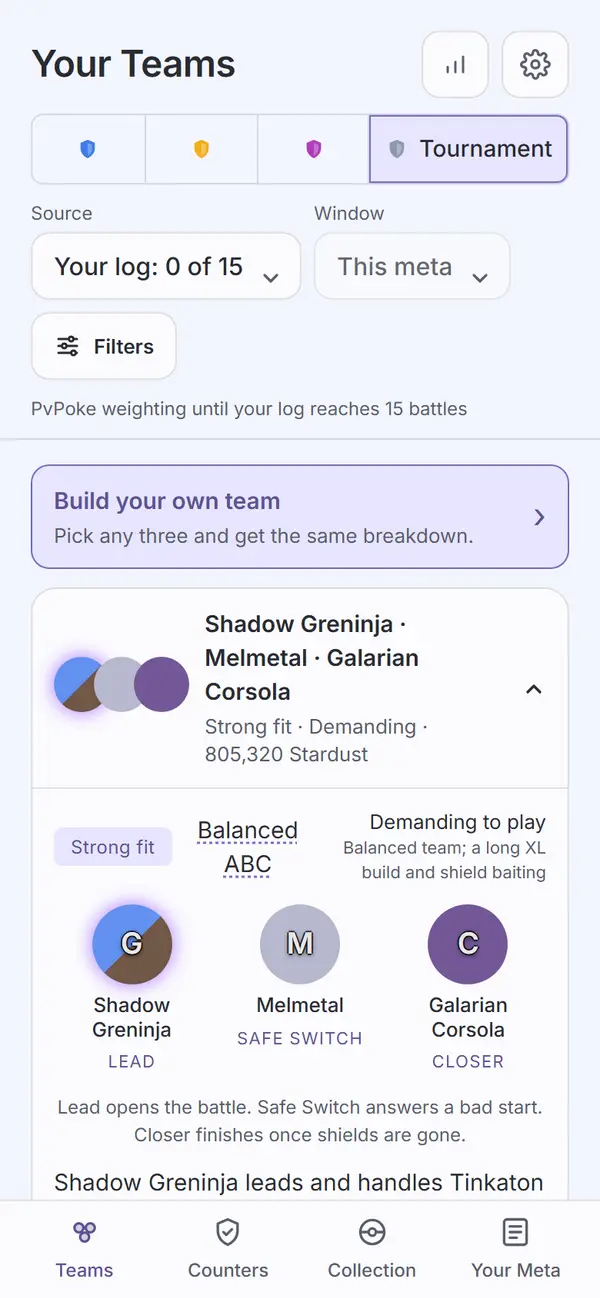
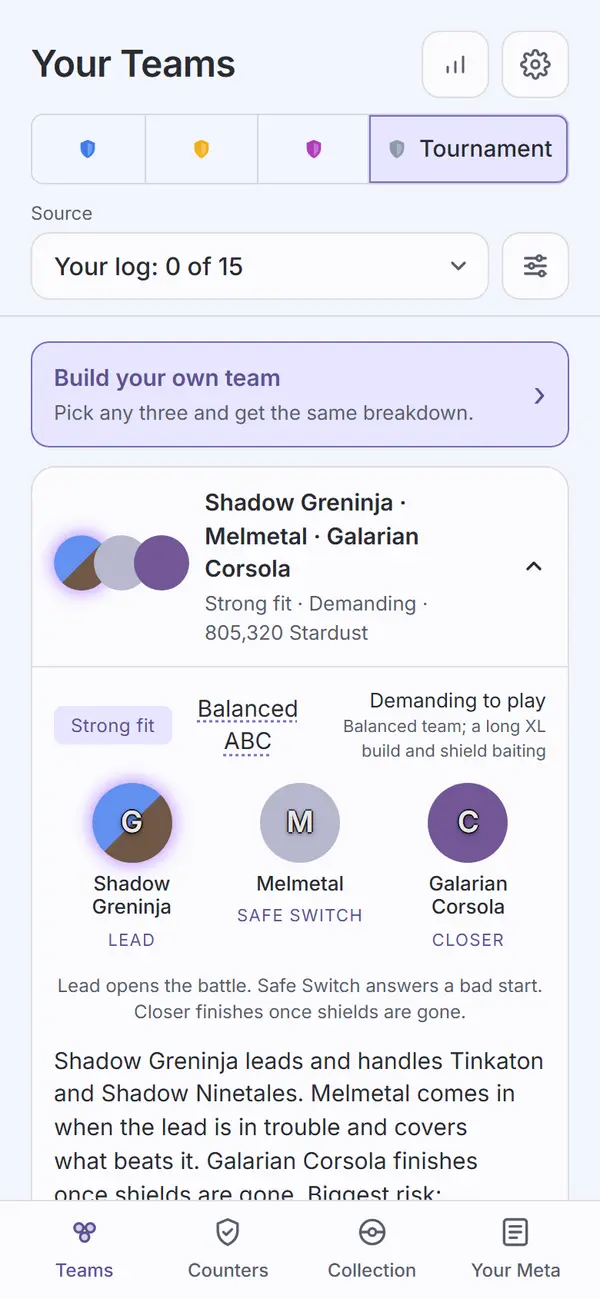
Design: Teams and gallery records for the controls change and the chevron fix
Fresh web:audit captures (Source and the filter icon in one row, Window at the top of the Filters sheet, no weighting line) and fresh gallery images (the icon-only FilterButton, centered chevrons), converted and looked at. teams.md describes the new controls with Travis's decision and the layout it replaces, updates the items that named the weighting line, and adds findings rows for the chevron and the controls change. gallery.md gains rows for both. Sign-off lines untouched.

Claude-Session: https://claude.ai/code/session_01QpDSW9ZhLWToL3VMBP1mJq

diff --git a/docs/design/audits/teams.md b/docs/design/audits/teams.md
@@ -13,18 +13,28 @@ shows those instead; nothing on this branch touched sprite rendering itself.
 
 ## Screenshots
 
-Dark and light at 390px, one pair per state. All 18 were regenerated by the final fix wave's
+Dark and light at 390px, one pair per state. All 18 were regenerated by the controls change's
 `npm run web:audit` run (2026-09-25) and converted to WebP (600px wide, quality 72).
-Full-page captures now show the tab bar at the true bottom of the page (see M2 below).
+Full-page captures show the tab bar at the true bottom of the page (see M2 below).
+
+The controls, as Travis chose them on 2026-09-25 (spec commit `b26b682`): under the league row,
+one row holds the Source select, filling the width with its "Source" label above, and the
+Filters icon button at its right, bottom-aligned with the select. The active-filter count shows
+as a badge on the icon's top-right corner (`teams-empty` shows "1"). Window moved to the top of
+the Filters sheet (`teams-filters-sheet`), and there is no summary line under the row: the
+Source value says what the list is weighted by, "(offline)" marks a community fallback, and the
+progress card counts the log's battles. This replaces the earlier layout: Source and Window
+selects side by side, a labeled Filters button under them, and a weighting line. Travis:
+"I like showing only the source and the filter icon with the number. That looks the cleanest."
 
 | State | Dark | Light |
 | --- | --- | --- |
 | `02-teams`: default list, Great League, first team open (full page) | ![](img/02-teams-dark.webp) | ![](img/02-teams-light.webp) |
 | `teams-second-open`: second row opened while the first stays open (full page) | ![](img/teams-second-open-dark.webp) | ![](img/teams-second-open-light.webp) |
-| `teams-community`: Source set to GBL (community ladder) (full page) | ![](img/teams-community-dark.webp) | ![](img/teams-community-light.webp) |
+| `teams-community`: Source set to GBL, the community ladder (full page) | ![](img/teams-community-dark.webp) | ![](img/teams-community-light.webp) |
 | `19-teams-ultra`: Ultra League selected | ![](img/19-teams-ultra-dark.webp) | ![](img/19-teams-ultra-light.webp) |
 | `teams-cup`: the Tournament cup, reached through the league row's "..." overflow | ![](img/teams-cup-dark.webp) | ![](img/teams-cup-light.webp) |
-| `teams-filters-sheet`: the Filters sheet open over the list | ![](img/teams-filters-sheet-dark.webp) | ![](img/teams-filters-sheet-light.webp) |
+| `teams-filters-sheet`: the Filters sheet open over the list, Window at its top (disabled with its note, since the source is Your log) | ![](img/teams-filters-sheet-dark.webp) | ![](img/teams-filters-sheet-light.webp) |
 | `teams-no-collection`: no collection saved yet | ![](img/teams-no-collection-dark.webp) | ![](img/teams-no-collection-light.webp) |
 | `teams-loading`: a run in progress (Ultra, first stage) | ![](img/teams-loading-dark.webp) | ![](img/teams-loading-light.webp) |
 | `teams-empty`: no team fits the filters (every specimen excluded) | ![](img/teams-empty-dark.webp) | ![](img/teams-empty-light.webp) |
@@ -76,7 +86,7 @@ source, a failed run is followed by at most one more, not a loop").
       change: exit 0.
 - [x] `npm run lint`, `npm run typecheck`, `npm test`, `npm run check-colors`, `npm run
       check-tokens`, all re-run 2026-09-25: lint exit 0; typecheck exit 0 across all seven
-      workspaces; `npm test` 127 files, 1,070 tests passed; `check-colors` exit 0 (no literal
+      workspaces; `npm test` 127 files, 1,074 tests passed; `check-colors` exit 0 (no literal
       added, baseline untouched); `check-tokens`: ok.
 
 ## Aesthetics
@@ -100,7 +110,7 @@ source, a failed run is followed by at most one more, not a loop").
       `teams-filters-sheet` the list's title stays under the sheet's scrim, and the sheet has
       its own title, "Filters". Levels visible across the captures: the page title, card and
       row team names (bold), body and explanation text, and small muted meta text (Stardust
-      totals, the weighting line) - four.
+      totals, the Source label) - four.
 - [x] one filled primary button: on Teams with a collection there is no filled primary button,
       which is correct because the page's actions are per team, not page-level (`View analysis`
       and `Edit team` are text links inside each row; "Build your own team" is a tinted,
@@ -111,7 +121,7 @@ source, a failed run is followed by at most one more, not a loop").
       read-only labels on every open row, not pressable. `teams-filters-sheet` shows switches
       (No XL, No Shadows, No Elite TM, Budget builds), not chips. No pressable chip row remains
       on the page; the sideways chip row the direction called out for removal is gone,
-      replaced by the single Filters button and sheet.
+      replaced by the Filters icon button and its sheet.
 - [x] the right header variant: every capture uses the shared `Header variant="top"` (page
       title plus the meta and cog `IconButton`s), including `teams-no-collection`. Teams is,
       for now, the only app page on that variant; Collection, Counters and Your Meta still use
@@ -120,21 +130,24 @@ source, a failed run is followed by at most one more, not a loop").
       `screens.mjs` edge guard measures it in `02-teams`).
 - [x] rows align; gutters and the 8px base hold: every collapsed row is one card with the
       sprites, names and fit line directly on it, no inner bordered box (checked in all nine
-      pairs, and by the `screens.mjs` border guard); the header, league row, selects, weighting
-      line, the Build your own team card and the list share one 20px gutter in both themes.
+      pairs, and by the `screens.mjs` border guard); the header, league row, the Source and
+      filter row, the Build your own team card and the list share one 20px gutter in both
+      themes. The filter icon's right edge meets the league row's, and its bottom the Source
+      select's. Every select's chevron sits on its box's vertical middle (fixed on this branch,
+      see the findings table).
 - [ ] sprites unchanged: cannot confirm from these captures. This worktree has no sprite build
       (`PICKTHREE_SKIP_SPRITES=1`), so every Pokémon in every capture is a lettered token disc
       (open rows) or an unlettered disc (collapsed rows, `showInitial={false}`), never a sprite
       image. The token fallback renders correctly with Task 5's fix: the "M" on Melmetal's
       single-type steel disc is clearly legible with its outline in both `teams-cup` captures.
       No CSS or component that draws a sprite changed on this branch.
-- [x] at most one line of text before the first result: one supporting line between the
-      controls and the list on every list state - "PvPoke weighting until your log reaches 15
-      battles" (`02-teams`, `teams-second-open`, `19-teams-ultra`, `teams-cup`,
-      `teams-loading`, `teams-empty`) or "This meta · GBL weighting" (`teams-community`). In
-      `teams-no-collection` the one line is "No collection yet. Pick a way in." In
-      `teams-filters-sheet` the sheet opens on its title ("Filters") and the "Team style" field
-      label, with no text before its first control.
+- [x] at most one line of text before the first result: no supporting line at all between the
+      controls and the list on any list state; the Build your own team card comes straight after
+      the Source row. The one exception is "No community data for this league", shown only for
+      a league without community data. In `teams-no-collection` the one line is "No collection
+      yet. Pick a way in." In `teams-filters-sheet` the sheet opens on its title ("Filters")
+      and the "Window" field label, and the Window note ("Applies when Source is GBL,
+      Tournaments or All") sits under the select only while Window does not apply.
 - [x] light as readable as dark: every state above is a matched dark/light pair; `web:audit`'s
       per-theme contrast pass is clean on all nine in both themes.
 
@@ -162,9 +175,12 @@ source, a failed run is followed by at most one more, not a loop").
   - Sprites only: see the "sprites unchanged" note above; there is no other Pokémon artwork.
 - [x] every control does what its label says: league tabs switch league (`19-teams-ultra`), the
       "..." overflow opens the cup list and selects Tournament (`teams-cup`), Filters opens the
-      sheet and Done closes it (`teams-filters-sheet`), the Source select changes the weighting
-      line (`teams-community`), the Empty card's Filters action carries the active count
-      ("Filters 1", `teams-empty`), Settings opens the settings sheet with or without a
+      sheet and Done closes it (`teams-filters-sheet`; `teamsHeader.test.tsx`'s "names the
+      filter count on the icon and opens the Filters sheet"), the Source select switches the
+      weighting (`teams-community` reads "GBL"), Window in the Filters sheet writes the window
+      for a community source and is disabled with its note otherwise (`filters.test.tsx`), the
+      filter icon and the Empty card's Filters action carry the active count ("1",
+      `teams-empty`), Settings opens the settings sheet with or without a
       collection (`teamsHeader.test.tsx`), Build your own team is a link to Build. After a
       failed run, the error card's Try again runs again, and Source, Window and Filters still
       run the recommendation when they change (`teamsList.test.tsx`, the error-state tests).
@@ -177,9 +193,11 @@ source, a failed run is followed by at most one more, not a loop").
       anyway. Analysis's own history-back lands with the Analysis plan.
 - input layout rule: not applicable, Teams has no text input.
 - [x] icon buttons named; focus visible: both header icon buttons carry a `label` ("meta.pick3.gg,
-      the community meta", "Settings"), the shared `IconButton`/`Button` components carry the
+      the community meta", "Settings"), and the filter icon is named "Filters", or "Filters, N
+      on" with its count (`Controls.test.tsx`, `teamsHeader.test.tsx`); the shared `IconButton`/`Button` components carry the
       same focus-visible outline audited on other pages (gallery record).
-- [x] product rules: assumptions shown (the footer counts and the one-line weighting summary);
+- [x] product rules: assumptions shown (the footer counts; the Source value names the weighting,
+      with "(offline)" on a community fallback);
       collection stays on the device (Teams makes no request that carries collection data; the
       community-source read is the existing league-only board fetch); `connect-src` unchanged
       (no CSP edit on this branch); sharing copy accurate ("Anonymous logs also improve the
@@ -202,9 +220,12 @@ source, a failed run is followed by at most one more, not a loop").
     list" and the two I3 tests above; visible in `02-teams` (first row open, rest closed) and
     `teams-second-open` (first row stays open while the second opens).
   - Filters count: `filterCount()` (`Teams.tsx`) counts the four moved switches, a non-empty
-    exclude list and a non-"Any" team style; `teamsHeader.test.tsx`'s "counts the moved filters,
-    a non-empty exclude list and a non-Any team style". `teams-empty` shows it on screen:
-    "Filters 1" (the exclude list) on both the header button and the Empty action.
+    exclude list, a non-"Any" team style, and a Window other than This meta while a community
+    source is picked (a hidden choice always shows on the badge; Window does not apply to PvPoke
+    or Your log, so it does not count then). `teamsHeader.test.tsx`'s "counts the moved filters,
+    a non-empty exclude list and a non-Any team style" and "counts a window other than This meta
+    only while a community source is picked". `teams-empty` shows it on screen: the badge "1"
+    (the exclude list) on the filter icon, and "Filters 1" on the Empty action.
   - Progress card rules: `02-teams`, `teams-second-open` and `teams-community` show the "Make
     these teams personal 11 / 15" card with its contribution line, matching
     `teamsList.test.tsx`'s "shows the progress card under 15 logged battles" and "shows the
@@ -221,7 +242,7 @@ source, a failed run is followed by at most one more, not a loop").
 | axe left `.team-why` and the Filters sheet's `.meta` / `.muted.small` as "contrast unverified - partially obscured", even though the same opaque ground painted under every line. | `scripts/audit.mjs`: for an `elmPartiallyObscuring` node, cut each line's stack at the first opaque background; if every line's upper layers are identical, flat, opaque and free of blend/opacity/text-shadow, composite and measure the real contrast instead of leaving it unverified. | `9a2117a` |
 | Sprite-less token-disc letters (white on a type-colored disc) measured as low as 2.51:1 (white on Melmetal's steel gray); axe left them "contrast unverified" (single letters read as "too short", and a dead `.token-shadow-wrap::before` sat in the Shadow-token stack). | Ruling: option A. New shared `--token-letter` / `--token-halo` tokens; `.token` gets a 1px four-direction stroke plus a soft drop shadow from `--token-halo`; two-type discs (a CSS gradient axe cannot measure) get `data-audit-contrast="static"` plus a unit test in `packages/ui/test/contrast.test.ts`; a new `packages/ui/test/SpeciesToken.test.tsx` checks the marker. | `3240be0` |
 | Review round 1 (5 items): the contrast test compared the letter against the raw type color instead of its own text-shadow outline; only one stroke direction was asserted; `--token-letter` / `--token-halo` were duplicated per theme block instead of shared; the audit's own self-measuring path (composited-contrast) had no regression test; an `AUDIT_ENFORCED` screen could be silently dropped from capture without failing the run. | Contrast test now composites `letter` over `outline` over the type color; asserts all four stroke directions; both tokens moved to the shared `:root` block; `scripts/ui-audit.mjs` gained a self-check fixture (`#fail`/`#pass`) that must report exactly one measured finding; `screens.mjs` tracks every shot taken and fails the run if an `AUDIT_ENFORCED` name was never captured. | `06b626f` |
-| I1: every Teams row drew a bordered box inside its card. `TeamRowSummary` used `.team-row`, the class Your Meta's set list already used, so both rules applied to both elements. It also broke Your Meta (outside Teams): the new rule's `display: flex` turned the set rows' grid into a flex line, pulling the battle count and W-L record against the sprites. Never shipped. | The summary's classes are now `.team-summary*` (test id `team-summary-names`), the weighting line `.teams-weighting`; Your Meta's `.team-row` untouched. `screens.mjs` throws if the summary has a border or a set row is not a grid, and `20-your-meta` is now a full-page shot so the set list is in the capture. | `004bdf3` |
+| I1: every Teams row drew a bordered box inside its card. `TeamRowSummary` used `.team-row`, the class Your Meta's set list already used, so both rules applied to both elements. It also broke Your Meta (outside Teams): the new rule's `display: flex` turned the set rows' grid into a flex line, pulling the battle count and W-L record against the sprites. Never shipped. | The summary's classes are now `.team-summary*` (test id `team-summary-names`), the weighting line `.teams-weighting` (the line itself was later removed by the controls change); Your Meta's `.team-row` untouched. `screens.mjs` throws if the summary has a border or a set row is not a grid, and `20-your-meta` is now a full-page shot so the set list is in the capture. | `004bdf3` |
 | I2: the top header was padded twice. `.ui-top` padded itself (safe-area inset plus 20px, a gutter each side) inside `.page-head`, which already pads, so the title and icon buttons sat 40px from the edges against the league row's 20px, and on an installed iPhone the notch inset counted twice. The gallery had the same double inset. | `.ui-top` has no padding of its own (`packages/ui/base.css`); the head container owns the gutter and safe-area inset, stated in `Header.tsx`'s doc comment and the base.css comment (meta's head must pad the same way when it adopts the top variant). `screens.mjs` throws if the title or last icon button is off the league row's edges by more than 1px. The guard measures `.league-row` (falling back to `.league-switcher`), because the "..." overflow sits beside the radiogroup, not inside it. | `59ac5d2` |
 | I3: open rows and scroll reset every time the player came back to Teams, and the effect on `recommendedWith` reopened the first row the moment a new run started. | Open rows in `useSticky('teams.open')` keyed by the recommendation object (a new list resets only at `rec-done`), the effect deleted, `useScrollMemory('teams.scroll')` added. Tests: remount keeps rows; a pending run keeps a closed first row closed; the fresh-list test still passes. | `87fe093` |
 | I4: the spec's loading and empty states were not captured or audited. | `teams-loading` and `teams-empty` captures added to `screens.mjs` and `AUDIT_ENFORCED` (how, above). Error is not captured (why, above). | `5025582` |
@@ -230,8 +251,14 @@ source, a failed run is followed by at most one more, not a loop").
 | M4, M5: `GLOSSARY['line']` duplicated `'ABB line'` with no reader; a test matched `/mimikyu/` only through the id fallback. | Entry deleted; `/mimikyu/i`. | `f14451f` |
 | I5: this record ticked items the captures or code contradicted. | Rewritten from the fix wave's fresh run and captures. | `c71df52` |
 | Re-review N1: after a failed run the error card was a dead end. The Teams effect was gated on `!recommendError`, so Source, Window and Filters changed their settings but never ran again until a league switch or a reload, and the card had no retry. | The error card has a "Try again" button (`runRecommend`; `rec-start` clears the error), and the effect runs when the error is set only if the key is stale, so a changed setting runs again and unchanged settings never loop. Four tests, including the community-source case (one follow-up run, then none). Test hygiene (N3): the list tests unstub globals in an `afterEach`. | `60d1121`, `b256663`, `45fd024` |
+| Every select's chevron sat 8px below its box's vertical middle, in both apps (visible in every earlier capture). Root cause: `Chevron` turns itself with an inline `transform: rotate(90deg)`, which replaced `.select-wrap svg`'s `translateY(-50%)` centering in `packages/ui/base.css`. | The chevron is centered with `top: 0; bottom: 0; margin: auto 0` (no transform to collide with), and the select is a block so its wrap is exactly its height. `ui:audit` now fails if any gallery select's chevron center is more than 1px off the select's center (it reported 8.0px before the fix). Checked in `teams-filters-sheet` and meta.pick3.gg's Window and Source selects. | `514e550` |
+| Controls redesign (Travis, 2026-09-25, spec `b26b682`): Source and Window side by side, a labeled Filters button under them and a weighting line took four lines of controls. | One row: Source filling the width and `FilterButton`'s new icon-only form with a count badge (`91b4e00`, `92c0889`); Window at the top of the Filters sheet, disabled with a note when it does not apply (`e6520b9`); a non-default Window counts on the badge while a community source is picked (`f72891c`). The badge hangs over the button's corner on purpose, so `scripts/audit.mjs`'s clipping check now skips overflow that a descendant marked `data-audit-overhang` alone explains; anything wider still reports. | `91b4e00`, `92c0889`, `e6520b9`, `f72891c` |
 
 Visible changes outside Teams, from this branch:
+- Every select's chevron, in both apps (meta.pick3.gg's Window and Source included), moves up
+  8px to its box's vertical middle.
+- `packages/ui` gains `FilterButton`'s icon-only form; the labeled form (the Empty card's action)
+  is unchanged.
 - The active tab-bar item (icon and label) moves from `--accent` to `--accent-text` on every
   screen in the app: paler in dark, darker in light.
 - Every `.btn-ghost` gets the same `--accent-text` shift: the sheet Done buttons (Filters and

diff --git a/docs/design/audits/gallery.md b/docs/design/audits/gallery.md
@@ -93,6 +93,8 @@ Dark and light at 390px, every foundation component in every state, one page per
 | The four-leagues-drop-shields fix (previous row) still cut it close, and does not generalize past a single extra cup: the league row now shows only the open leagues (Great, Ultra, Master, always with shields and names) plus a "..." overflow that opens a `LeagueList` sheet of every league and cup; the current cup shows in the overflow slot instead of "...". At a 350px row (gallery, 390px viewport) even one cup's name next to three full league names does not fit, so `LeagueSwitcher` measures the fit in a layout effect and, when clipped, hides the open leagues' names (shields only, kept in the accessibility tree) to free the room; only if the cup's name still does not fit does it ellipsize in its own slot | New `LeagueList` component; `LeagueSwitcher`'s `more.current`; `packages/ui/base.css`'s league-row/league-more rules rebuilt as a content-driven grid so the three leagues never lose a letter to an even flex split; `apps/web/src/components/LeagueSwitcher.tsx` filters to `kind === 'standard'` for the row and opens a `Sheet` with every league for the overflow | 826095f, 6d7e22b, a91f826 |
 | Fix round 1 (review of the row above): the Leagues sheet rendered inline inside `.page-head`'s own stacking context, so the app's fixed tab bar (a later sibling, lower z-index) still painted over it and the Tournament row could not be tapped; collapsed shield-only radios measured 29x44, under the 44px rule; the collapse decision went stale once the web font replaced the fallback font's (narrower) metrics, only re-measuring on a row resize the font swap never causes; the row left empty space trailing the cup once collapsed instead of filling its width; the plain three-leagues-plus-"..." row, now floored at each league's max-content width, overflowed at 320px; `.league-more` rendered the cup's name in the platform's default button font, not the app's; the original "about 381px" figure in this file's own previous row was never measured in a real browser | `Sheet` and `ConfirmSheet` render through `createPortal` (to `document.body` by default, or an explicit `container` prop for the gallery's own mock phone frames, which rely on a CSS descendant selector to keep several open at once without covering each other); `.league-row.collapsed .league-switcher button` gets `min-width: var(--tap)`; the layout effect now observes the radiogroup and the cup slot (not only the row, which does not resize on its own) with a `ResizeObserver`, and also re-measures on `document.fonts`' `loadingdone` and `ready`, both guarded for environments without `document.fonts`; the radiogroup's grid columns float to `minmax(max-content, 1fr)` (protecting every league's full name) only once a cup is current, `minmax(0, 1fr)` otherwise (the original, always-shrinkable behavior); the radiogroup keeps `flex-grow: 1` with a cup current so the row still fills its width; `.league-more`'s cup slot gets `font: inherit; font-size: 13px; font-weight: 500`, matched in `apps/web/src/app.css`'s compact rule; measured with the reviewer's own puppeteer scripts against the real app and gallery (table in the report's "Fix round 1" section) | (this change) |
 | After sign-off, from the Your Teams final review (I2): the top header (`Header variant="top"`, `.ui-top`) padded itself (safe-area inset plus 20px, a gutter each side) inside `.g-page`, which already pads, so the gallery's two top headers sat one gutter in from the section and counted the top inset twice | `.ui-top` has no padding of its own; the head container (the gallery's `.g-page`, web's `.page-head`) owns the gutter and the inset. `ui:audit` re-run 2026-09-25: clean in dark and light; both gallery images recaptured, the top headers now sit on the section's gutter (the sub header keeps its own padding, as before) | 59ac5d2 |
+| After sign-off, from the Teams controls change: every Select's chevron sat 8px below the select's vertical middle. `Chevron`'s inline `rotate` transform replaced `.select-wrap svg`'s `translateY(-50%)` | Centered with `top: 0; bottom: 0; margin: auto 0`, the select made a block; `ui:audit` now fails when any gallery select's chevron center is more than 1px off the select's center (it reported 8.0px before). Re-run 2026-09-25: clean in dark and light, both images recaptured | 514e550 |
+| After sign-off, for the Teams controls change: `FilterButton` gains an icon-only form (`iconOnly`), IconButton's 44px shape, named "Filters" or "Filters, N on", the count as a badge over the top-right corner (--accent-lo fill, --on-accent text, a 2px --bg ring). The gallery shows it with none on and one on. The page audit's clipping check skips overflow explained only by a descendant marked `data-audit-overhang` (the badge) | New form in `packages/ui/src/components/FilterButton.tsx` and `base.css`, ui tests in `Controls.test.tsx`; `scripts/audit.mjs` | 91b4e00 |
 
 ## Visible changes in the live apps
 
